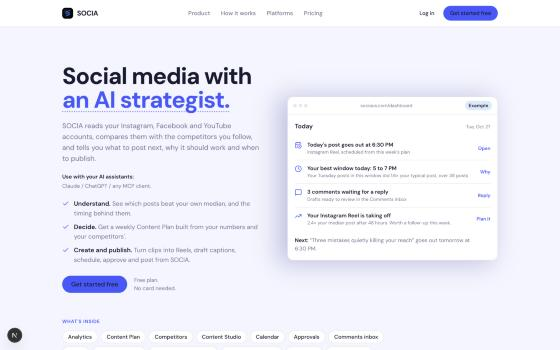
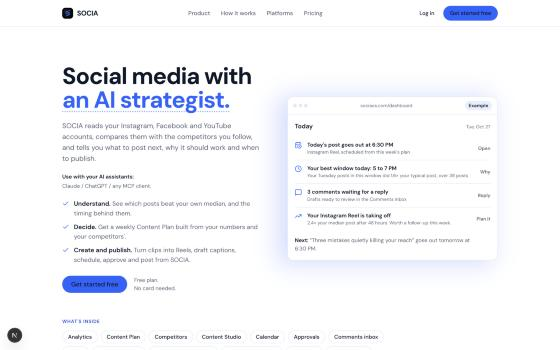
Homepage: SOCIA's own colours in place of the reference's lavender and violet
Noah didn't want white and purple. The canvas is white, the ink navy, and
cobalt #2563ff (the brand mark's blue, the app's data colour) is the one
accent: the button, the headline's accent line, the focus ring, the glow
under the mockup. Small cobalt text uses the darker ink for contrast.
Cards get a hairline edge, since white no longer lifts off the canvas.

diff --git a/components/home/home.css b/components/home/home.css
@@ -1,10 +1,12 @@
 /* ============================================================================
    SOCIA public homepage, 2026-10-27. The visual system is the FeedHive
    reference (styles.refero.design/style/45080e55), with the Captions reference
-   (…/196dc658) for the media card and the FAQ rows: a near-white lavender
-   canvas, white cards that lift off it, one blue-violet used as punctuation
-   (fills, the accent phrase, the focus ring), pills for every control, one
-   geometric sans at generous sizes, flat surfaces except the single violet
+   (…/196dc658) for the media card and the FAQ rows. The reference's lavender
+   and violet were swapped on 2026-10-27, at Noah's request, for SOCIA's own
+   colours: a white canvas, navy ink, cobalt #2563ff as the one accent (fills,
+   the accent phrase, the focus ring), with cards edged by a hairline since
+   white no longer lifts off the canvas. Pills for every control, one
+   geometric sans at generous sizes, flat surfaces except the single cobalt
    glow under the product mockup.
 
    Tokens live here, scoped to .hm, because this is the marketing skin and the
@@ -12,7 +14,7 @@
    substitute for Thicccboi (a paid face).
 
    Deliberate departures from the reference, with the reason:
-   - The CTA fill and the accent phrase are solid violet, not the brand
+   - The CTA fill and the accent phrase are a solid colour, not the brand
      gradient: lib/antiSlop.test.ts refuses new gradients and gradient text.
    - No floating 3D hearts, no AI chat orb, no "Trusted by" logos, no
      testimonial grid: decoration and invented proof fail the standard (P0/P1).
@@ -21,18 +23,19 @@
    ========================================================================= */
 
 .hm {
-  --hm-canvas: #f3f5ff;
+  --hm-canvas: #ffffff;
   --hm-card: #ffffff;
-  --hm-ink: #181c31;
-  --hm-muted: #757693;
-  --hm-muted-2: #6b7280;
-  --hm-border: #e5e7eb;
-  --hm-wash: #dbeafe;
-  --hm-violet: #4457ff;
-  --hm-violet-light: #7583fd;
-  --hm-violet-hover: #3346e6;
-  --hm-glow: rgba(32, 36, 138, 0.25) -19px 5px 60px 4px;
-  --hm-air: #effbff;
+  --hm-ink: #0f172a;
+  --hm-muted: #5b6475;
+  --hm-muted-2: #475569;
+  --hm-border: #e2e8f0;
+  --hm-wash: #e9effe;
+  --hm-accent: #2563ff;
+  --hm-accent-2: #60a5fa;
+  --hm-accent-hover: #1d4ed8;
+  --hm-accent-ink: #1d4ed8;
+  --hm-glow: rgba(37, 99, 255, 0.22) -19px 5px 60px 4px;
+  --hm-air: #eef4ff;
 
   --hm-font: var(--font-dm), ui-sans-serif, system-ui, -apple-system, "Segoe UI", Roboto, sans-serif;
   --hm-fs-caption: 12px;
@@ -69,13 +72,13 @@
 .hm *::after { box-sizing: border-box; }
 
 .hm a { color: inherit; text-decoration: none; }
-.hm :focus-visible { outline: 2px solid var(--hm-violet); outline-offset: 3px; border-radius: var(--hm-r-sm); }
+.hm :focus-visible { outline: 2px solid var(--hm-accent); outline-offset: 3px; border-radius: var(--hm-r-sm); }
 .hm b, .hm strong { font-weight: 600; color: var(--hm-ink); }
 .hm img, .hm video { display: block; max-width: 100%; }
 
 .hm-wrap { max-width: var(--hm-max); margin-inline: auto; padding-inline: var(--hm-pad); }
 .hm [id] { scroll-margin-top: 84px; }
-html:has(.hm) { background: #f3f5ff; }
+html:has(.hm) { background: #ffffff; }
 
 /* ---- type ---------------------------------------------------------------- */
 .hm-eyebrow {
@@ -84,7 +87,7 @@ html:has(.hm) { background: #f3f5ff; }
   font-weight: 600;
   letter-spacing: 0.08em;
   text-transform: uppercase;
-  color: var(--hm-violet);
+  color: var(--hm-accent-ink);
   margin-bottom: 14px;
 }
 .hm-h1 {
@@ -96,8 +99,8 @@ html:has(.hm) { background: #f3f5ff; }
   margin: 0;
 }
 .hm-h1 .hm-accent {
-  color: var(--hm-violet);
-  text-decoration: underline dotted var(--hm-violet-light);
+  color: var(--hm-accent);
+  text-decoration: underline dotted var(--hm-accent-2);
   text-decoration-thickness: 3px;
   text-underline-offset: 0.14em;
 }
@@ -136,8 +139,8 @@ html:has(.hm) { background: #f3f5ff; }
   transition: background-color 120ms ease, border-color 120ms ease, color 120ms ease;
 }
 .hm-btn svg { width: 16px; height: 16px; flex: none; }
-.hm-btn--primary { background: var(--hm-violet); color: #ffffff; }
-.hm-btn--primary:hover { background: var(--hm-violet-hover); }
+.hm-btn--primary { background: var(--hm-accent); color: #ffffff; }
+.hm-btn--primary:hover { background: var(--hm-accent-hover); }
 .hm-btn--ghost { background: transparent; color: var(--hm-muted); padding-inline: 14px; }
 .hm-btn--ghost:hover { color: var(--hm-ink); }
 .hm-btn--outline { background: var(--hm-card); color: var(--hm-ink); border-color: var(--hm-border); }
@@ -180,7 +183,7 @@ html:has(.hm) { background: #f3f5ff; }
 .hm-brand .brandmark { border-radius: 8px; }
 .hm-nav-links { display: flex; align-items: center; gap: 4px; margin-inline: auto; }
 .hm-nav-links a { padding: 8px 12px; border-radius: var(--hm-r-pill); color: var(--hm-muted); font-weight: 500; font-size: 15px; }
-.hm-nav-links a:hover { color: var(--hm-ink); background: var(--hm-canvas); }
+.hm-nav-links a:hover { color: var(--hm-ink); background: var(--hm-wash); }
 .hm-nav-actions { display: flex; align-items: center; gap: 6px; }
 .hm-nav-toggle { display: none; }
 .hm-nav-menu { display: none; }
@@ -195,7 +198,7 @@ html:has(.hm) { background: #f3f5ff; }
   .hm-nav-toggle svg { width: 20px; height: 20px; }
   .hm-nav-menu.is-open { display: grid; gap: 4px; padding: 8px 0 16px; border-top: 1px solid var(--hm-border); }
   .hm-nav-menu a { padding: 12px 8px; border-radius: var(--hm-r-sm); font-weight: 500; color: var(--hm-ink); }
-  .hm-nav-menu a:hover { background: var(--hm-canvas); }
+  .hm-nav-menu a:hover { background: var(--hm-wash); }
 }
 
 /* ---- hero ---------------------------------------------------------------- */
@@ -208,11 +211,11 @@ html:has(.hm) { background: #f3f5ff; }
 .hm-with span { font-size: var(--hm-fs-sm); color: var(--hm-muted); }
 .hm-checks { list-style: none; margin: 0; padding: 0; display: grid; gap: 10px; }
 .hm-checks li { display: flex; gap: 12px; align-items: flex-start; color: var(--hm-muted); }
-.hm-checks svg { width: 18px; height: 18px; flex: none; margin-top: 3px; color: var(--hm-violet); }
+.hm-checks svg { width: 18px; height: 18px; flex: none; margin-top: 3px; color: var(--hm-accent); }
 .hm-cta-row { display: flex; align-items: center; gap: 18px; flex-wrap: wrap; margin-top: 6px; }
 .hm-cta-note { display: grid; font-size: var(--hm-fs-sm); color: var(--hm-muted); line-height: 1.5; }
 
-/* the product mockup: the one element that casts the violet glow */
+/* the product mockup: the one element that casts the cobalt glow */
 .hm-mock {
   background: var(--hm-card);
   border-radius: var(--hm-r-mid);
@@ -231,10 +234,10 @@ html:has(.hm) { background: #f3f5ff; }
 .hm-today { list-style: none; margin: 0; padding: 0; display: grid; }
 .hm-today li { display: grid; grid-template-columns: 20px 1fr auto; gap: 12px; align-items: start; padding: 11px 0; border-top: 1px solid var(--hm-border); }
 .hm-today li:first-child { border-top: 0; }
-.hm-today svg { width: 18px; height: 18px; color: var(--hm-violet); margin-top: 2px; }
+.hm-today svg { width: 18px; height: 18px; color: var(--hm-accent); margin-top: 2px; }
 .hm-today b { display: block; font-size: var(--hm-fs-sm); font-weight: 600; line-height: 1.4; }
 .hm-today span { display: block; font-size: var(--hm-fs-caption); color: var(--hm-muted); line-height: 1.5; }
-.hm-today-act { align-self: center; font-size: var(--hm-fs-caption); font-weight: 600; color: var(--hm-violet); white-space: nowrap; }
+.hm-today-act { align-self: center; font-size: var(--hm-fs-caption); font-weight: 600; color: var(--hm-accent-ink); white-space: nowrap; }
 
 @media (max-width: 960px) {
   .hm-hero-grid { grid-template-columns: 1fr; }
@@ -256,7 +259,7 @@ html:has(.hm) { background: #f3f5ff; }
 .hm-steps { display: grid; grid-template-columns: repeat(3, minmax(0, 1fr)); gap: 0; border-top: 1px solid var(--hm-border); border-bottom: 1px solid var(--hm-border); }
 .hm-step { padding: 32px 28px 36px 0; display: grid; gap: 12px; align-content: start; }
 .hm-step + .hm-step { padding-left: 28px; border-left: 1px solid var(--hm-border); }
-.hm-step-n { font-size: var(--hm-fs-sm); font-weight: 600; color: var(--hm-violet); }
+.hm-step-n { font-size: var(--hm-fs-sm); font-weight: 600; color: var(--hm-accent-ink); }
 .hm-step h3 { font-size: var(--hm-fs-sub); font-weight: 600; margin: 0; line-height: 1.3; }
 .hm-step p { margin: 0; color: var(--hm-muted); }
 .hm-step small { font-size: var(--hm-fs-caption); color: var(--hm-muted); }
@@ -295,7 +298,7 @@ html:has(.hm) { background: #f3f5ff; }
 @media (max-width: 860px) { .hm-demo { grid-template-columns: 1fr; } }
 
 /* the loop */
-.hm-loop { list-style: none; margin: 0; padding: 0; display: grid; grid-template-columns: repeat(4, minmax(0, 1fr)); background: var(--hm-card); border-radius: var(--hm-r-card); overflow: hidden; }
+.hm-loop { list-style: none; margin: 0; padding: 0; display: grid; grid-template-columns: repeat(4, minmax(0, 1fr)); background: var(--hm-card); border: 1px solid var(--hm-border); border-radius: var(--hm-r-card); overflow: hidden; }
 .hm-loop-item { padding: 28px 24px; display: grid; gap: 8px; align-content: start; }
 .hm-loop-item + .hm-loop-item { border-left: 1px solid var(--hm-border); }
 .hm-loop-item b { font-size: var(--hm-fs-lg); }
@@ -361,7 +364,7 @@ html:has(.hm) { background: #f3f5ff; }
 .hm-bars li > span:first-child { display: grid; gap: 4px; min-width: 0; }
 .hm-bars em { font-style: normal; color: var(--hm-muted); font-size: var(--hm-fs-caption); overflow: hidden; text-overflow: ellipsis; white-space: nowrap; }
 .hm-bar { height: 6px; border-radius: var(--hm-r-pill); background: var(--hm-wash); overflow: hidden; }
-.hm-bar i { display: block; height: 100%; background: var(--hm-violet); border-radius: var(--hm-r-pill); }
+.hm-bar i { display: block; height: 100%; background: var(--hm-accent); border-radius: var(--hm-r-pill); }
 .hm-bar.is-median i { background: var(--hm-muted); }
 .hm-bars output { font-variant-numeric: tabular-nums; font-weight: 600; font-size: var(--hm-fs-sm); }
 .hm-week { list-style: none; margin: 0; padding: 0; display: grid; gap: 0; }
@@ -370,7 +373,7 @@ html:has(.hm) { background: #f3f5ff; }
 .hm-week li > span:first-child { font-weight: 600; color: var(--hm-muted); font-size: var(--hm-fs-caption); }
 .hm-week b { display: block; font-size: var(--hm-fs-sm); }
 .hm-week em { font-style: normal; color: var(--hm-muted); font-size: var(--hm-fs-caption); }
-.hm-status { font-size: var(--hm-fs-caption); font-weight: 600; padding: 3px 9px; border-radius: var(--hm-r-pill); background: var(--hm-canvas); color: var(--hm-muted); white-space: nowrap; }
+.hm-status { font-size: var(--hm-fs-caption); font-weight: 600; padding: 3px 9px; border-radius: var(--hm-r-pill); background: #f1f5f9; color: var(--hm-muted); white-space: nowrap; }
 .hm-status.is-on { background: var(--hm-wash); color: var(--hm-ink); }
 .hm-approve { display: grid; gap: 10px; }
 .hm-approve-item { display: grid; grid-template-columns: 1fr auto; gap: 12px; align-items: center; padding: 12px 14px; border: 1px solid var(--hm-border); border-radius: var(--hm-r-img); font-size: var(--hm-fs-sm); }
@@ -388,7 +391,7 @@ html:has(.hm) { background: #f3f5ff; }
 
 /* pricing */
 .hm-plans { display: grid; grid-template-columns: repeat(4, minmax(0, 1fr)); gap: 16px; }
-.hm-plan { background: var(--hm-card); border-radius: var(--hm-r-card); padding: 24px; display: grid; gap: 14px; align-content: start; }
+.hm-plan { background: var(--hm-card); border: 1px solid var(--hm-border); border-radius: var(--hm-r-card); padding: 24px; display: grid; gap: 14px; align-content: start; }
 .hm-plan h3 { font-size: var(--hm-fs-sub); font-weight: 600; margin: 0; }
 .hm-price { display: flex; align-items: baseline; gap: 6px; }
 .hm-price b { font-size: var(--hm-fs-h2); font-weight: 700; letter-spacing: -0.03em; line-height: 1; font-variant-numeric: tabular-nums; }
@@ -396,7 +399,7 @@ html:has(.hm) { background: #f3f5ff; }
 .hm-plan p { margin: 0; color: var(--hm-muted); font-size: 15px; }
 .hm-plan ul { list-style: none; margin: 0; padding: 0; display: grid; gap: 7px; font-size: var(--hm-fs-sm); }
 .hm-plan li { display: flex; gap: 8px; align-items: flex-start; }
-.hm-plan li svg { width: 16px; height: 16px; flex: none; margin-top: 3px; color: var(--hm-violet); }
+.hm-plan li svg { width: 16px; height: 16px; flex: none; margin-top: 3px; color: var(--hm-accent); }
 .hm-plan .hm-btn { margin-top: 4px; }
 .hm-plans-note { margin-top: 18px; text-align: center; }
 .hm-link-ink { color: var(--hm-ink); text-decoration: underline; text-underline-offset: 3px; }
